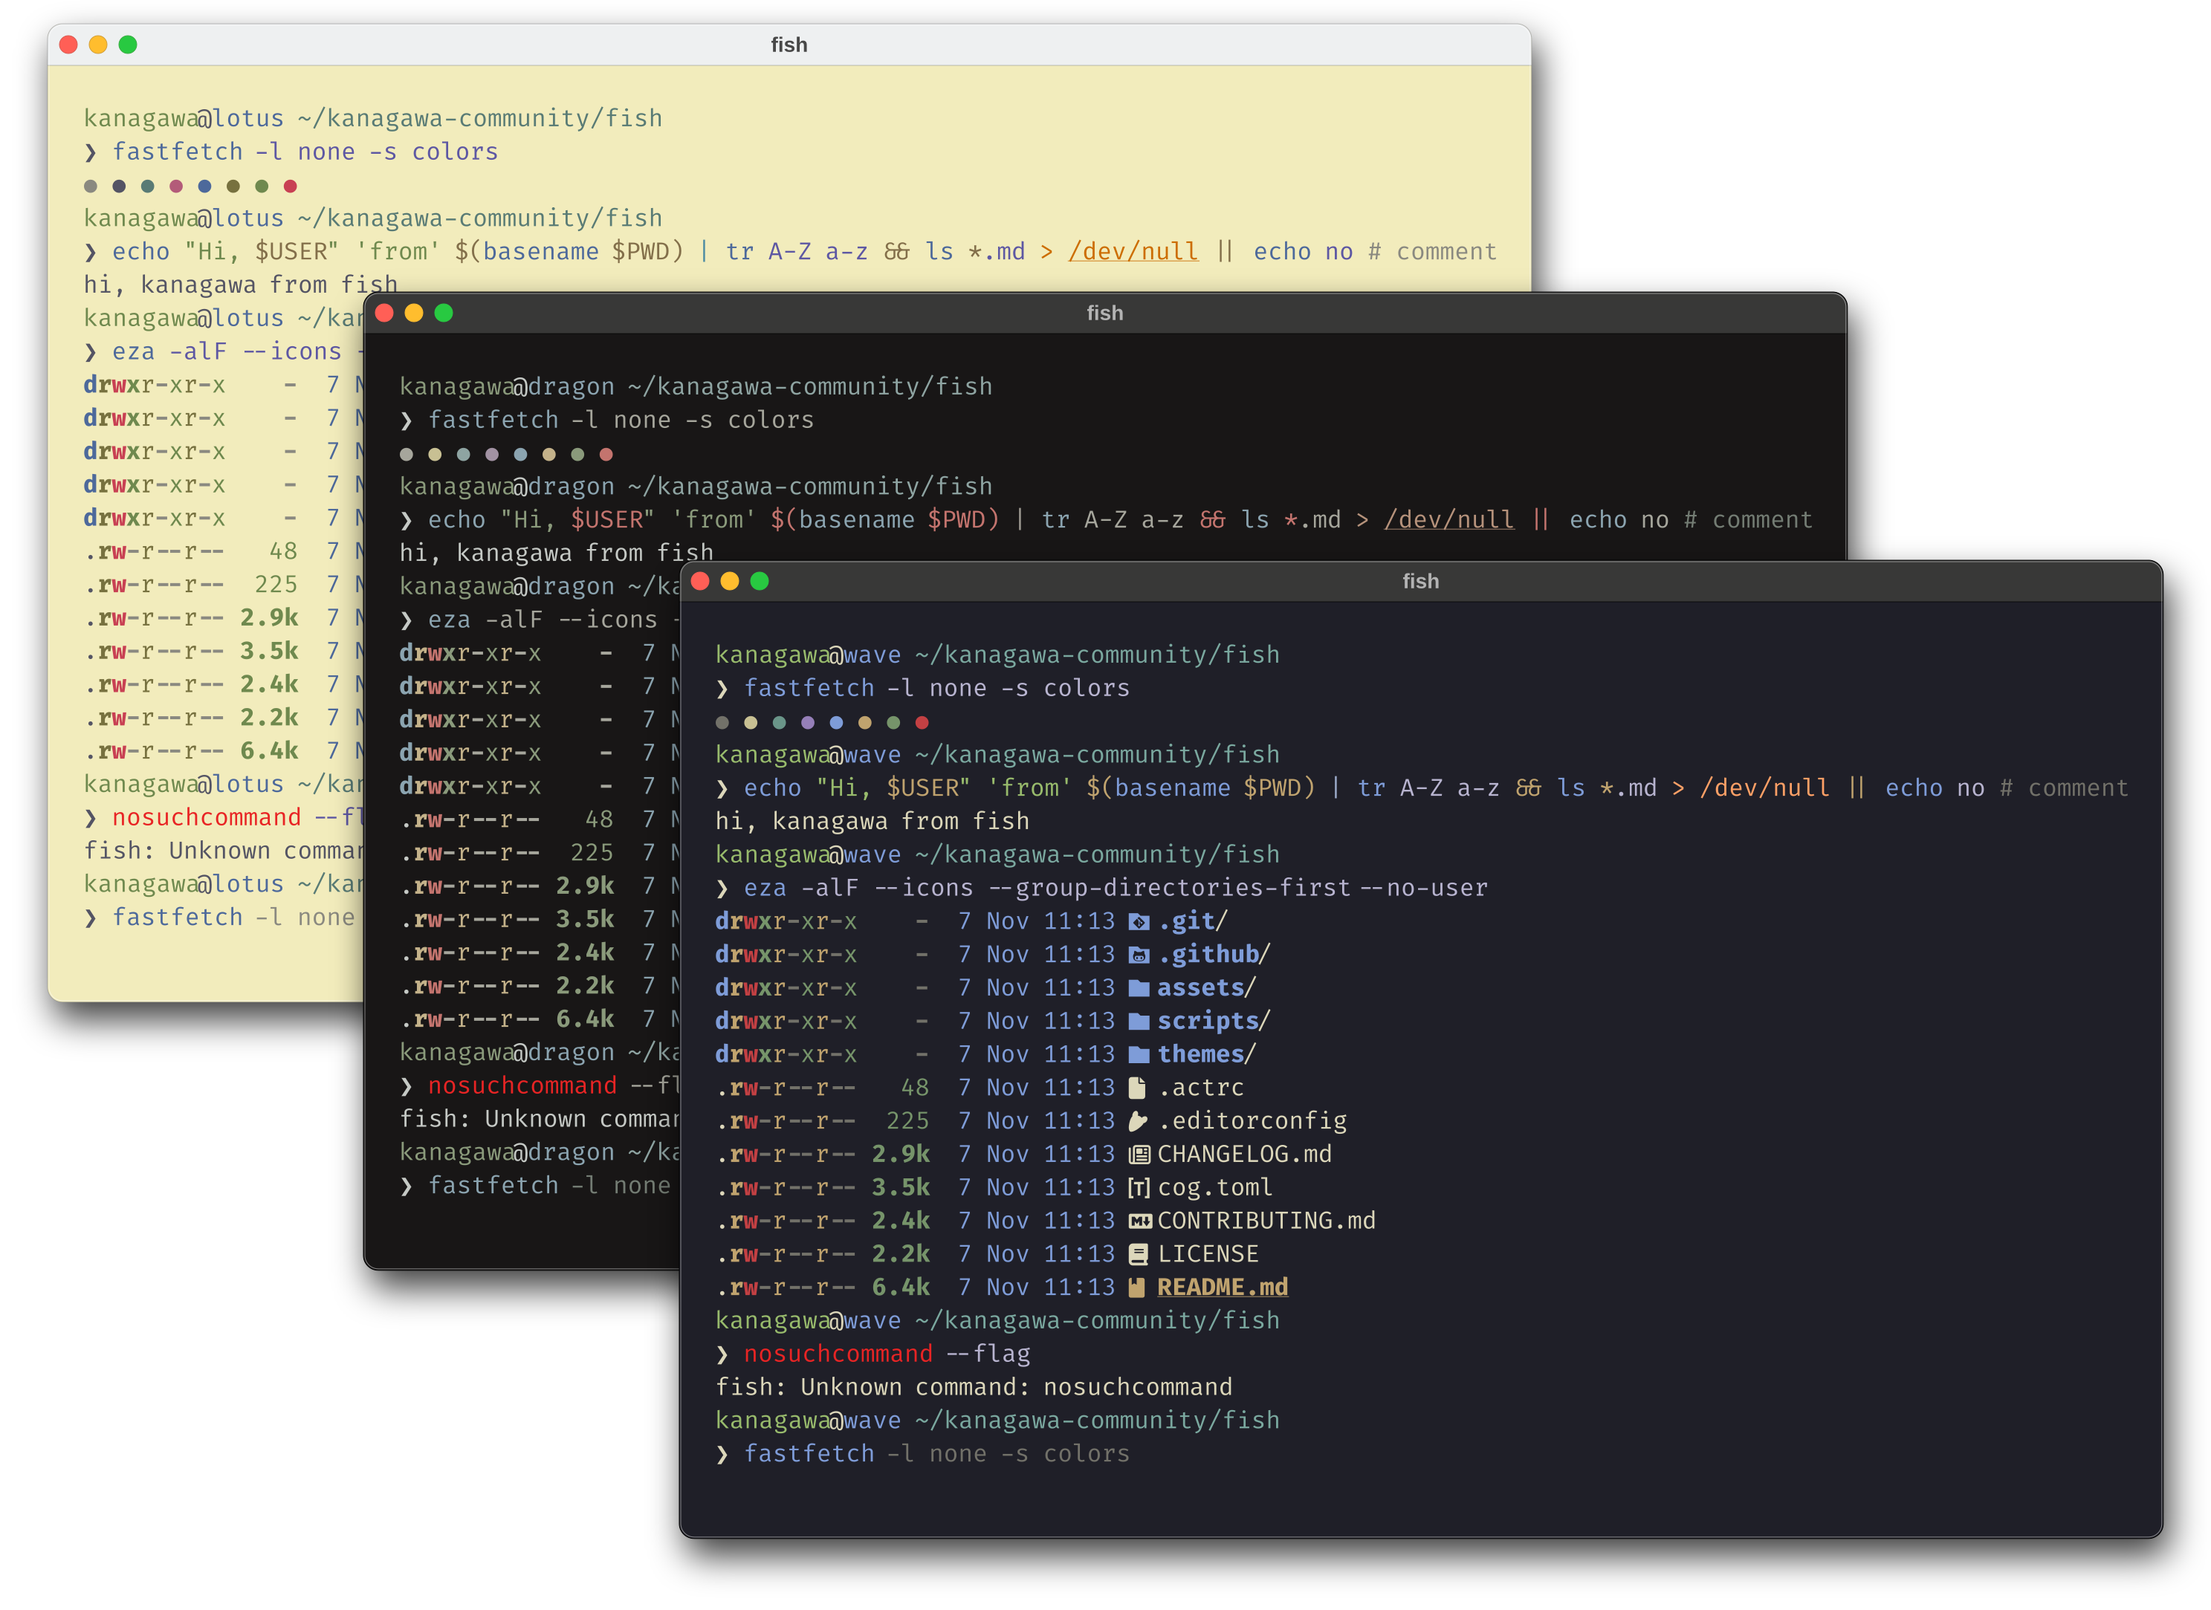
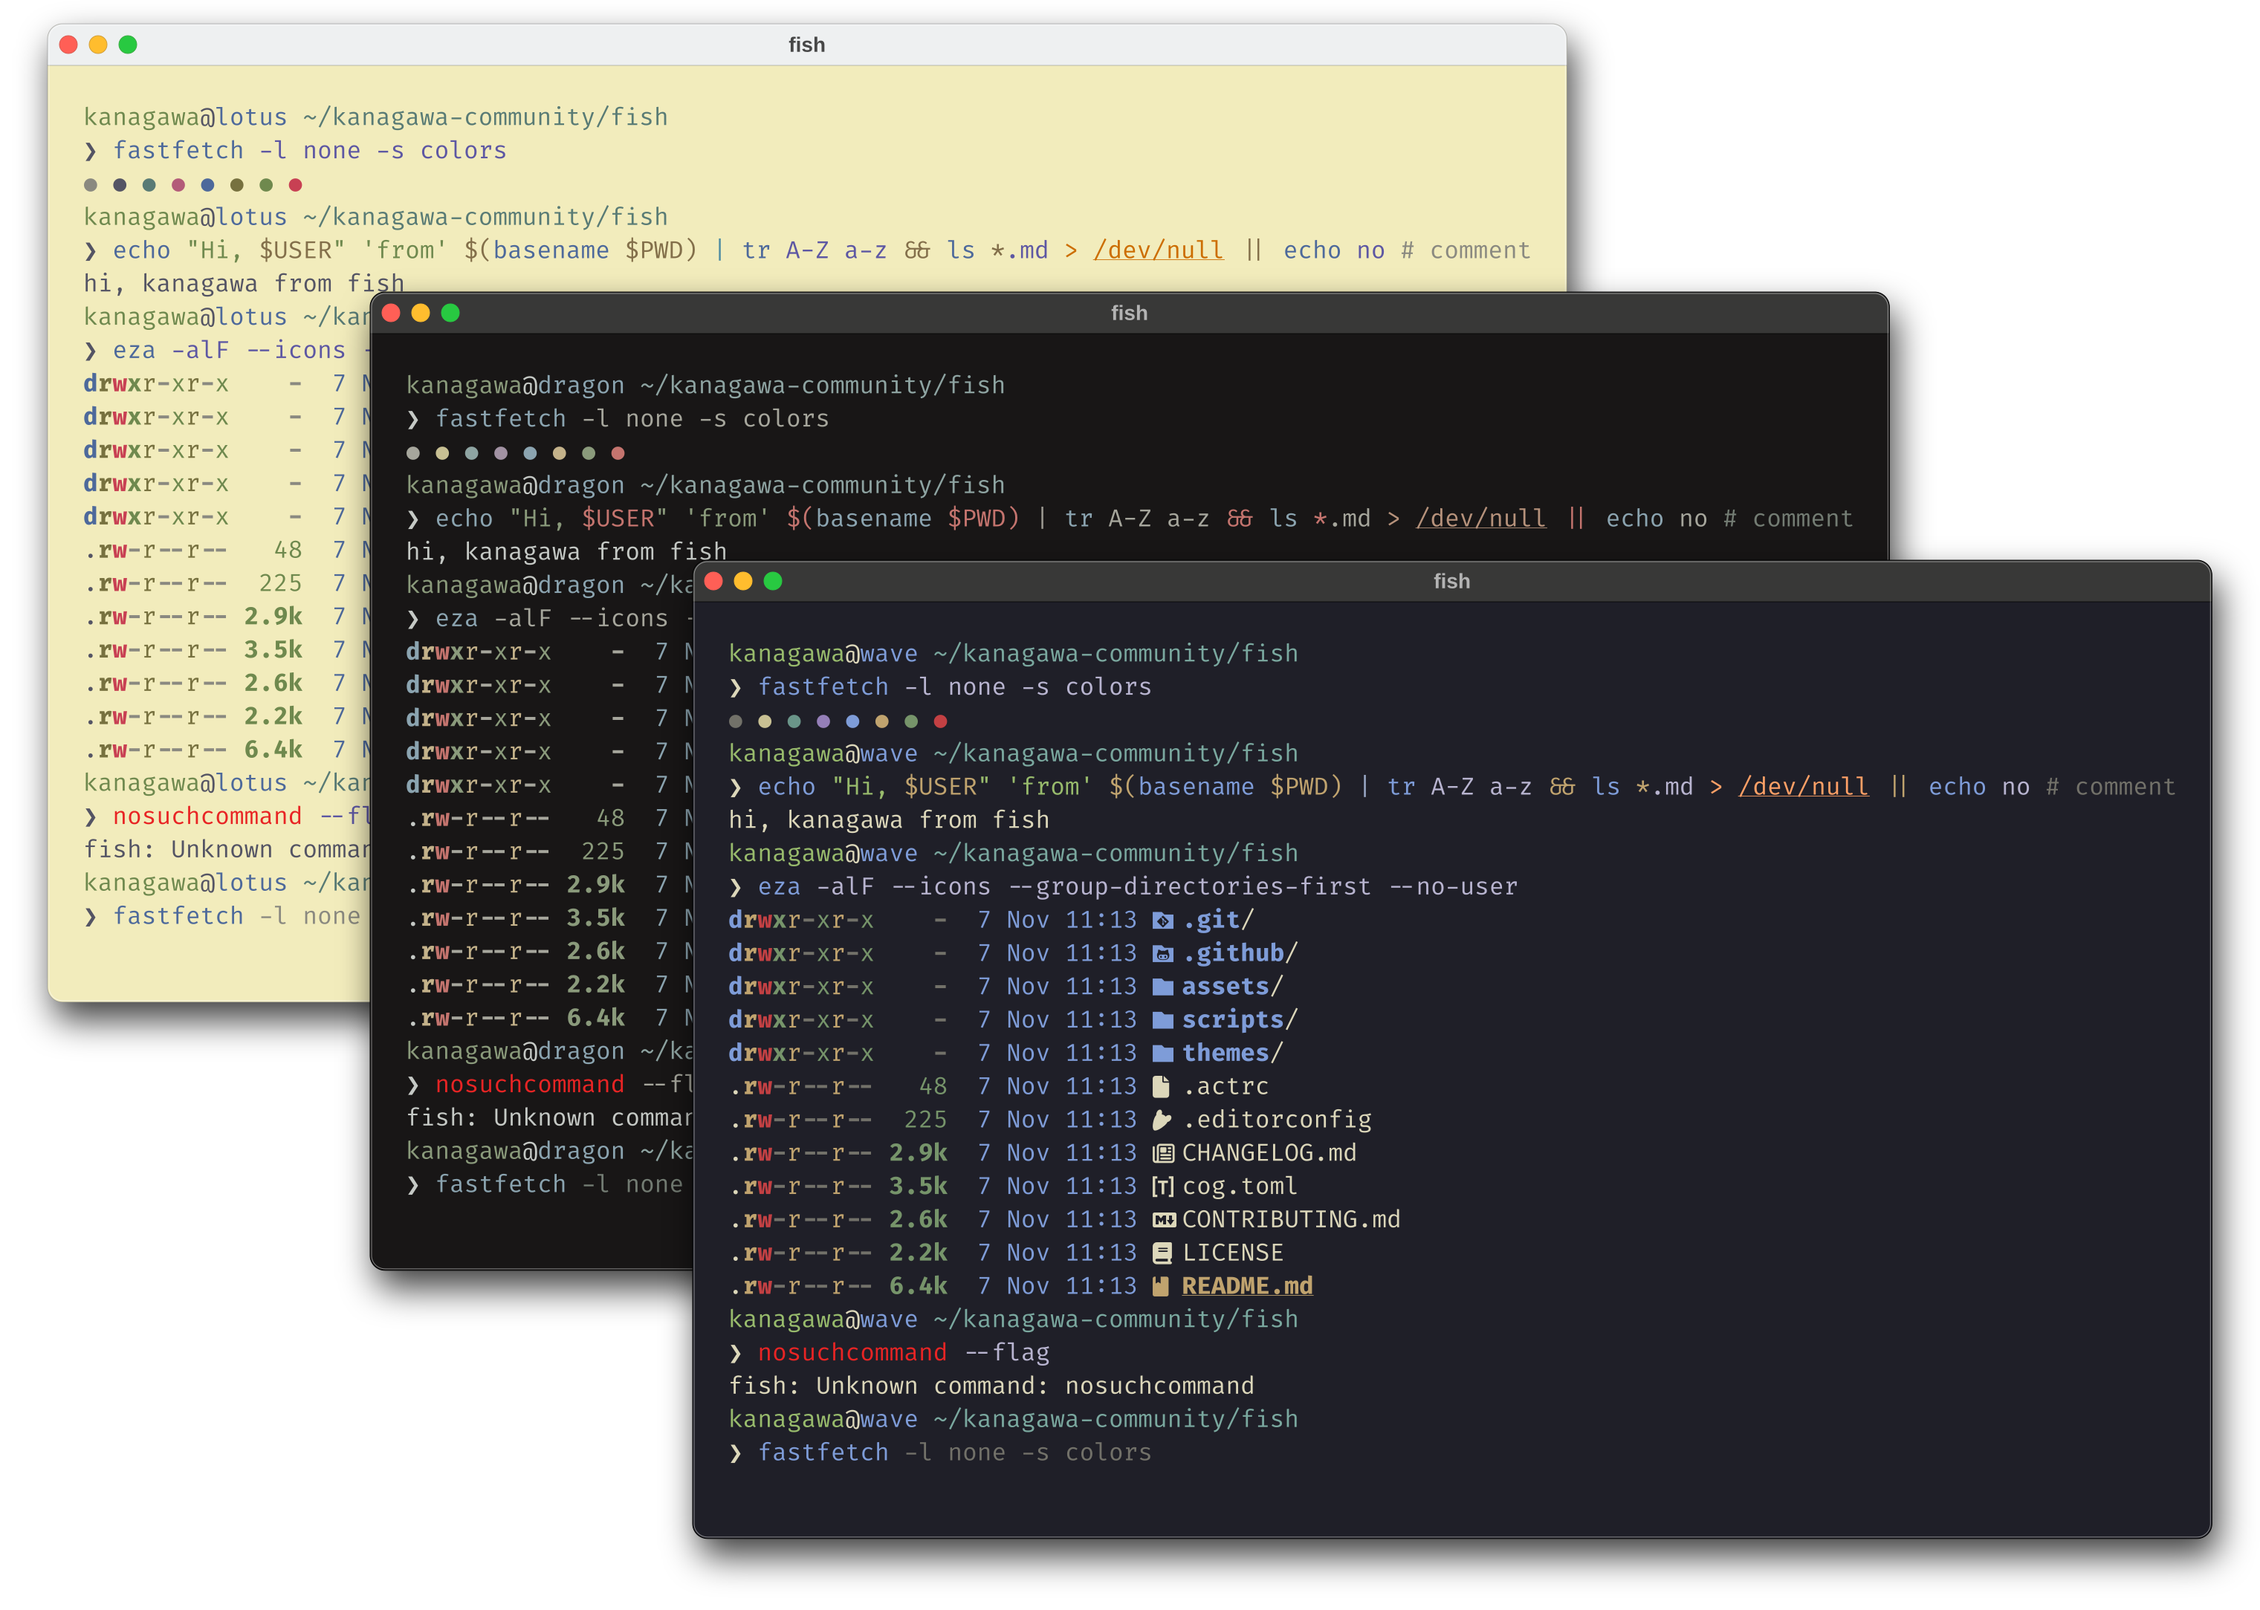
refactor: render previews with the shared script
Replace scripts/render-previews.sh and the copied termframe-theme.py with a
scripts/preview.sh hook for .github's render-previews.sh, which now does the
rendering, the showcase and the social preview. The tmux session is
unchanged. The images are re-rendered: the shared script gives termframe the
font's real metrics, so the spacing is correct.

diff --git a/CONTRIBUTING.md b/CONTRIBUTING.md
@@ -35,11 +35,18 @@ sets one fish color variable to a palette color, chosen by role. The README list
 the mapping. To try a change, copy the files to `~/.config/fish/themes/` and run
 `fish_config theme choose kanagawa-wave` (or `kanagawa-dragon`, `kanagawa-lotus`) in a new shell.
 
-The images in `assets/screenshots/` are rendered, not captured by hand. After
-changing a theme, run `scripts/render-previews.sh` and commit the new images. It
-needs `fish`, `tmux`, `eza`, `fastfetch`, `rsync`, `rsvg-convert`, `magick`,
-[termframe](https://github.com/pamburus/termframe) and the FiraCode Nerd Font. See the
-[preview standard](https://github.com/kanagawa-community/.github/blob/main/docs/PREVIEWS.md).
+The images in `assets/` are rendered, not captured by hand. After changing a
+theme, run this from the repository root and commit the new images:
+
+```sh
+bash <(curl -fsSL https://raw.githubusercontent.com/kanagawa-community/.github/main/scripts/render-previews.sh)
+```
+
+It fetches the shared preview scripts from the
+[.github repository](https://github.com/kanagawa-community/.github). `scripts/preview.sh` holds the fish-specific part
+and needs `fish`, `tmux`, `eza`, `fastfetch` and `rsync`. See the
+[preview standard](https://github.com/kanagawa-community/.github/blob/main/docs/PREVIEWS.md)
+for the rest.
 
 ## Pull requests
 
